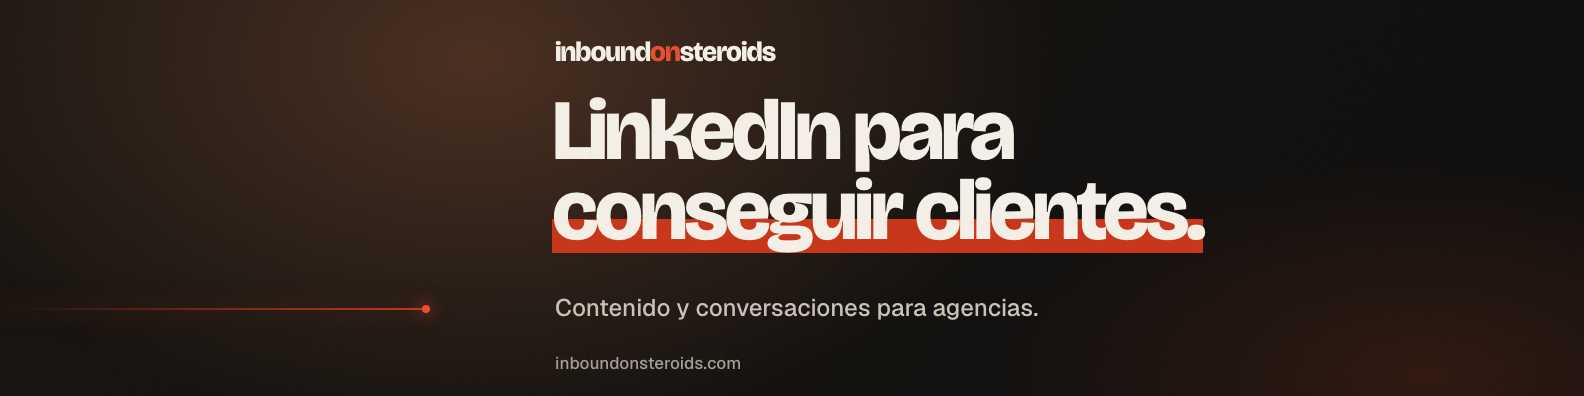
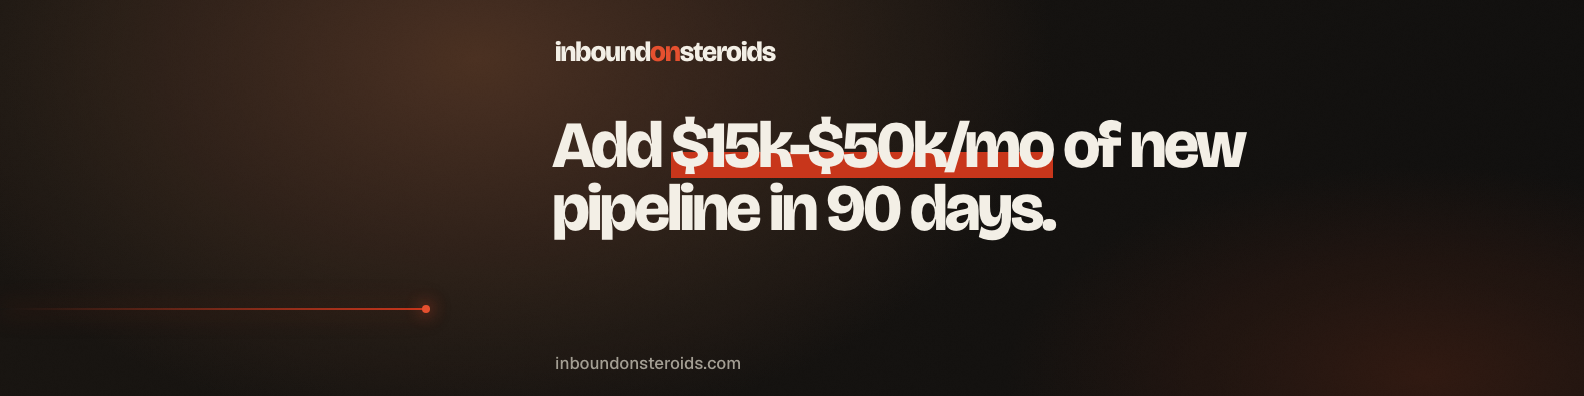
Use Ivan headline and cover copy in English for Anna guide

Changed region(s): [[0.3403, 0.2424, 0.8043, 0.6364], [0.3403, 0.7576, 0.6496, 0.8182]]

diff --git a/shared/anna-linkedin-7f2c8e14/index.html b/shared/anna-linkedin-7f2c8e14/index.html
@@ -37,8 +37,8 @@ a{color:inherit;text-underline-offset:4px;overflow-wrap:anywhere}button,a.button
 <h2>Foto y portada</h2>
 <p>Usá una foto tuya, de frente, con buena luz y un fondo simple. Una foto de al menos 400 × 400 píxeles alcanza. Tu cara tiene que verse bien dentro del círculo.</p>
 <p class="where">En tu perfil, tocá la foto para cambiarla. El lápiz de la imagen de fondo cambia la portada.</p>
-<img class="banner" src="anna-linkedin-banner.png" width="1584" height="396" alt="Portada InboundOnSteroids: LinkedIn para conseguir clientes. Contenido y conversaciones para agencias.">
-<a class="button" href="anna-linkedin-banner.png" download="anna-linkedin-banner.png">Descargar portada PNG</a>
+<img class="banner" src="anna-linkedin-banner.png?v=2" width="1584" height="396" alt="Portada InboundOnSteroids: Add $15k-$50k/mo of new pipeline in 90 days.">
+<a class="button" href="anna-linkedin-banner.png?v=2" download="anna-linkedin-banner.png">Descargar portada PNG</a>
 <p class="note">Ya está en 1584 × 396 píxeles, el tamaño recomendado por LinkedIn. Subila completa y revisá cómo queda desde el celular.</p>
 <label class="done"><input type="checkbox" data-check="photo">Mi foto y mi portada están listas</label>
 </section>
@@ -46,26 +46,30 @@ a{color:inherit;text-underline-offset:4px;overflow-wrap:anywhere}button,a.button
 <section class="section" id="titular">
 <h2>Nombre, titular y ubicación</h2>
 <p class="where">Abrí tu perfil y tocá el lápiz de la primera sección, junto a tu nombre.</p>
-<p>Dejá tu nombre y apellido reales. En <strong>Titular</strong>, pegá esto:</p>
-<div class="copybox"><p class="copytext" id="headline">Conversaciones y reuniones para agencias | InboundOnSteroids | Estudiante de desarrollo frontend</p><button type="button" data-copy="headline">Copiar titular</button></div>
+<p>Dejá tu nombre y apellido reales. Los textos del perfil van en <strong>inglés</strong>. En <strong>Titular</strong>, pegá el mismo texto que usa Ivan:</p>
+<div class="copybox"><p class="copytext" id="headline">Agency owners: add $15k-$50k/mo from LinkedIn in 90 days with content + outreach, run for you.</p><button type="button" data-copy="headline">Copiar titular</button></div>
 <p>En ubicación, poné <strong>tu ciudad real y Argentina</strong>. Si aparece el campo sector, elegí el de servicios de tecnología de la información, que es el sector de la empresa.</p>
-<p class="note">Tu perfil puede estar en español. Conservá tus estudios y proyectos de programación; también son parte de tu experiencia.</p>
+<p class="note">Conservá tus estudios y proyectos de programación. Esta guía está en español para que puedas seguirla; los textos para pegar en el perfil están en inglés.</p>
 <label class="done"><input type="checkbox" data-check="headline">Mi titular y mis datos están listos</label>
 </section>
 
 <section class="section" id="acerca">
 <h2>Acerca de</h2>
 <p class="where">Buscá «Acerca de» y tocá el lápiz. Si falta, usá «Añadir sección» → «Principal» → «Acerca de».</p>
-<p>Este texto explica lo que hacemos y cuál es tu parte. Podés copiarlo cuando empieces:</p>
-<div class="copybox"><p class="copytext" id="about">Trabajo con Ivan Manfredi en InboundOnSteroids. Ayudamos a dueños de agencias a conseguir clientes a través de LinkedIn.
+<p>Este texto presenta el mismo servicio que el perfil de Ivan. Podés copiarlo cuando empieces:</p>
+<div class="copybox"><p class="copytext" id="about">Agency owner doing 6 or 7 figures a year?
 
-El equipo prepara el contenido y hace el seguimiento de las personas interesadas hasta coordinar una reunión. Yo me ocupo de las conversaciones, las primeras preguntas y la coordinación de reuniones con Ivan.
+We run your LinkedIn content and outreach so interested buyers end up in your calendar.
 
-También estudio desarrollo frontend. Estoy empezando a trabajar en la parte comercial y aprendiendo cómo funciona el servicio.
+You know LinkedIn can get you clients, you just never get around to the content or the outreach. You tried a ghostwriter, and the posts didn’t sound like you. You tried a lead-gen agency, and months of retainer bought zero pipeline.
 
-Si tenés una agencia y querés conocer el servicio, podés escribirme por acá.
+We turn your expertise into posts, carousels and lead magnets, and your feed stays active while you run the agency.
 
-inboundonsteroids.com</p><button type="button" data-copy="about">Copiar Acerca de</button></div>
+We handle the comments, DMs and follow-up through to booking. You take the sales calls. Everything stays yours: the audience, the email list, the content and every lead captured.
+
+Want to see what your feed could look like? DM me and I’ll show you, free.
+
+Or book the free fit call at inboundonsteroids.com</p><button type="button" data-copy="about">Copiar Acerca de</button></div>
 <label class="done"><input type="checkbox" data-check="about">Mi sección Acerca de está lista</label>
 </section>
 
@@ -74,7 +78,7 @@ inboundonsteroids.com</p><button type="button" data-copy="about">Copiar Acerca d
 <p class="where">En «Experiencia», tocá +. También podés usar «Añadir sección» → «Principal» → «Añadir puesto».</p>
 <p>Agregá una experiencia nueva con estos datos. Este puesto corresponde a tu trabajo con Ivan desde la fecha que acuerden.</p>
 <dl class="fields">
-<div><dt>Cargo</dt><dd>Desarrollo comercial</dd></div>
+<div><dt>Cargo</dt><dd>Business Development</dd></div>
 <div><dt>Empresa</dt><dd><strong>InboundOnSteroids</strong>. Escribí el nombre y elegí la página de la empresa en las sugerencias.<br><a href="https://www.linkedin.com/company/inboundonsteroids/" target="_blank" rel="noopener">Ver la empresa correcta ↗</a></dd></div>
 <div><dt>Tipo de empleo</dt><dd>Elegí la opción que coincida con lo que acuerden. Si empezás como colaboradora independiente, usá «Autónomo» o la opción equivalente que aparezca.</dd></div>
 <div><dt>Ubicación</dt><dd>Tu ciudad real, Argentina. Modalidad: en remoto.</dd></div>
@@ -82,12 +86,12 @@ inboundonsteroids.com</p><button type="button" data-copy="about">Copiar Acerca d
 <div><dt>Notificar a tu red</dt><dd>Podés apagarlo mientras preparás el perfil, así revisamos todo antes de anunciarlo.</dd></div>
 </dl>
 <p>En la descripción del puesto, pegá esto:</p>
-<div class="copybox"><p class="copytext" id="experience">Me ocupo de las conversaciones con posibles clientes en LinkedIn, respondo consultas y coordino reuniones con Ivan Manfredi.
+<div class="copybox"><p class="copytext" id="experience">I handle LinkedIn conversations with potential clients, answer initial questions and help book sales calls.
 
-Trabajo con respuestas preparadas por el equipo y reviso cada mensaje antes de enviarlo. Si aparece una pregunta sobre precios, resultados o el servicio que todavía no puedo responder, la consulto con Ivan.
+InboundOnSteroids runs LinkedIn content and outreach for agency owners. We turn their expertise into posts, carousels and lead magnets, then handle the follow-up through to booking.
 
-InboundOnSteroids trabaja con dueños de agencias en su contenido de LinkedIn y en el seguimiento de las personas interesadas.</p><button type="button" data-copy="experience">Copiar descripción del puesto</button></div>
-<p class="note">Usá «Desarrollo comercial» como cargo. Los resultados y la experiencia de Ivan le corresponden a él. Sumaremos tus propios resultados a medida que tengas trabajo para mostrar.</p>
+I review each prepared reply before sending it and keep track of the conversations assigned to me.</p><button type="button" data-copy="experience">Copiar descripción del puesto</button></div>
+<p class="note">Usá «Business Development» como cargo. Los resultados y la experiencia de Ivan le corresponden a él. Sumaremos tus propios resultados a medida que tengas trabajo para mostrar.</p>
 <label class="done"><input type="checkbox" data-check="experience">Mi experiencia está lista con una fecha real</label>
 </section>
 
@@ -95,7 +99,7 @@ InboundOnSteroids trabaja con dueños de agencias en su contenido de LinkedIn y 
 <h2>Destacados y contacto</h2>
 <p>Agregá un enlace para que quien visite tu perfil pueda conocer la empresa.</p>
 <p class="where">«Añadir sección» → «Recomendado» → «Destacados». Dentro de Destacados, tocá + y elegí «Añadir un enlace».</p>
-<dl class="fields"><div><dt>Enlace</dt><dd><a href="https://inboundonsteroids.com" target="_blank" rel="noopener">https://inboundonsteroids.com</a></dd></div><div><dt>Título</dt><dd>Conocé InboundOnSteroids</dd></div><div><dt>Descripción</dt><dd>Contenido y conversaciones en LinkedIn para dueños de agencias. Conocé el servicio y hablá con Ivan.</dd></div></dl>
+<dl class="fields"><div><dt>Enlace</dt><dd><a href="https://inboundonsteroids.com" target="_blank" rel="noopener">https://inboundonsteroids.com</a></dd></div><div><dt>Título</dt><dd>LinkedIn content and outreach, run for you</dd></div><div><dt>Descripción</dt><dd>We run LinkedIn content and outreach for agency owners. See the service and book a fit call.</dd></div></dl>
 <p>En <strong>Información de contacto → Editar → Sitio web</strong>, agregá el mismo enlace como web de la empresa. Usá tu propio correo si querés mostrar uno. Podés dejar tu teléfono fuera del perfil público.</p>
 <p class="note">En esta etapa, la web y Destacados alcanzan. Los botones especiales de Premium pueden esperar.</p>
 <label class="done"><input type="checkbox" data-check="featured">La web está en Destacados y en contacto</label>
@@ -103,7 +107,7 @@ InboundOnSteroids trabaja con dueños de agencias en su contenido de LinkedIn y 
 
 <section class="section" id="estudios">
 <h2>Tus estudios y habilidades</h2>
-<div class="two"><div><h3>Educación</h3><p>Poné tu universidad o instituto real, el nombre de la carrera y tus fechas. Si seguís estudiando, indicá que está en curso. Conservá tus proyectos y cursos reales.</p></div><div><h3>Aptitudes</h3><p>Agregá habilidades que ya uses: HTML, CSS, JavaScript y desarrollo frontend. A medida que trabajes con Ivan, podés sumar comunicación con clientes, generación de clientes potenciales y seguimiento comercial.</p></div></div>
+<div class="two"><div><h3>Educación</h3><p>Poné tu universidad o instituto real, el nombre de la carrera y tus fechas. Si seguís estudiando, indicá que está en curso. Conservá tus proyectos y cursos reales.</p></div><div><h3>Aptitudes</h3><p>Agregá habilidades que ya uses: HTML, CSS, JavaScript y Front-End Development. A medida que trabajes con Ivan, podés sumar Client Communication, Lead Generation y Sales Development.</p></div></div>
 <h3>Idiomas</h3><p>Español: nativo. Para inglés, elegí el nivel que describa lo que podés hacer hoy. Podés entender inglés y seguir usando español para las conversaciones.</p>
 <details><summary>Las otras secciones pueden esperar</summary><p>Certificaciones, recomendaciones, publicaciones y premios se completan cuando tengas algo real para agregar. Si ya tenés un proyecto de frontend publicado, podés incluirlo en Proyectos.</p></details>
 <label class="done"><input type="checkbox" data-check="education">Mis estudios, habilidades e idiomas son correctos</label>

diff --git a/shared/anna-linkedin-7f2c8e14/banner-source.html b/shared/anna-linkedin-7f2c8e14/banner-source.html
@@ -1,4 +1,4 @@
-<!doctype html><html lang="es"><head><meta charset="utf-8"><meta name="robots" content="noindex,nofollow"><title>Portada Anna</title><style>
+<!doctype html><html lang="en"><head><meta charset="utf-8"><meta name="robots" content="noindex,nofollow"><title>Portada Anna</title><style>
 @font-face{font-family:Brico;src:url('/assets/fonts/Brico.woff2') format('woff2');font-weight:200 800;font-display:block}@font-face{font-family:Geist;src:url('/assets/fonts/GeistV.woff2') format('woff2');font-weight:100 900;font-display:block}
-*{box-sizing:border-box}html,body{margin:0;width:1584px;height:396px;overflow:hidden;background:#0F0E0D;color:#F3EFE6}.room{width:1584px;height:396px;position:relative;background:radial-gradient(ellipse 770px 500px at 30% 15%,#4A3021 0,transparent 75%),radial-gradient(ellipse 600px 300px at 90% 95%,#301810 0,transparent 70%),linear-gradient(120deg,#181410,#0F0E0D);padding:0}.grain{position:absolute;inset:0;background:url('/assets/img/grain.png');opacity:.1;pointer-events:none}.mark{position:absolute;top:38px;left:555px;font:800 28px/1 Brico,sans-serif;letter-spacing:-.035em}.mark b{color:#E5502F}h1{position:absolute;left:552px;top:91px;font:800 86px/.93 Brico,sans-serif;font-variation-settings:'opsz' 96;letter-spacing:-.045em;margin:0}h1 span{background:linear-gradient(transparent 58%,#C8361B 58%,#C8361B 91%,transparent 91%)}p{position:absolute;left:555px;top:292px;margin:0;font:500 24px/1.3 Geist,sans-serif;color:#C9C2B7}.thread{position:absolute;left:0;top:308px;width:430px;height:2px;background:linear-gradient(90deg,transparent,#C8361B);box-shadow:0 0 25px #C8361B80}.thread:after{content:'';position:absolute;right:0;top:-3px;width:8px;height:8px;background:#E5502F;border-radius:50%;box-shadow:0 0 16px #E5502F}.url{position:absolute;left:555px;bottom:24px;color:#A39E93;font:500 17px/1 Geist,sans-serif}
-</style></head><body><div class="room"><div class="grain"></div><div class="mark">inbound<b>on</b>steroids</div><h1>LinkedIn para<br><span>conseguir clientes.</span></h1><p>Contenido y conversaciones para agencias.</p><div class="thread"></div><div class="url">inboundonsteroids.com</div></div></body></html>
+*{box-sizing:border-box}html,body{margin:0;width:1584px;height:396px;overflow:hidden;background:#0F0E0D;color:#F3EFE6}.room{width:1584px;height:396px;position:relative;background:radial-gradient(ellipse 770px 500px at 30% 15%,#4A3021 0,transparent 75%),radial-gradient(ellipse 600px 300px at 90% 95%,#301810 0,transparent 70%),linear-gradient(120deg,#181410,#0F0E0D);padding:0}.grain{position:absolute;inset:0;background:url('/assets/img/grain.png');opacity:.1;pointer-events:none}.mark{position:absolute;top:38px;left:555px;font:800 28px/1 Brico,sans-serif;letter-spacing:-.035em}.mark b{color:#E5502F}h1{position:absolute;left:552px;top:115px;font:800 66px/.95 Brico,sans-serif;font-variation-settings:'opsz' 96;letter-spacing:-.045em;margin:0}h1 span{background:linear-gradient(transparent 58%,#C8361B 58%,#C8361B 91%,transparent 91%)}p{position:absolute;left:555px;top:292px;margin:0;font:500 24px/1.3 Geist,sans-serif;color:#C9C2B7}.thread{position:absolute;left:0;top:308px;width:430px;height:2px;background:linear-gradient(90deg,transparent,#C8361B);box-shadow:0 0 25px #C8361B80}.thread:after{content:'';position:absolute;right:0;top:-3px;width:8px;height:8px;background:#E5502F;border-radius:50%;box-shadow:0 0 16px #E5502F}.url{position:absolute;left:555px;bottom:24px;color:#A39E93;font:500 17px/1 Geist,sans-serif}
+</style></head><body><div class="room"><div class="grain"></div><div class="mark">inbound<b>on</b>steroids</div><h1>Add <span>$15k-$50k/mo</span> of new<br>pipeline in 90 days.</h1><div class="thread"></div><div class="url">inboundonsteroids.com</div></div></body></html>
